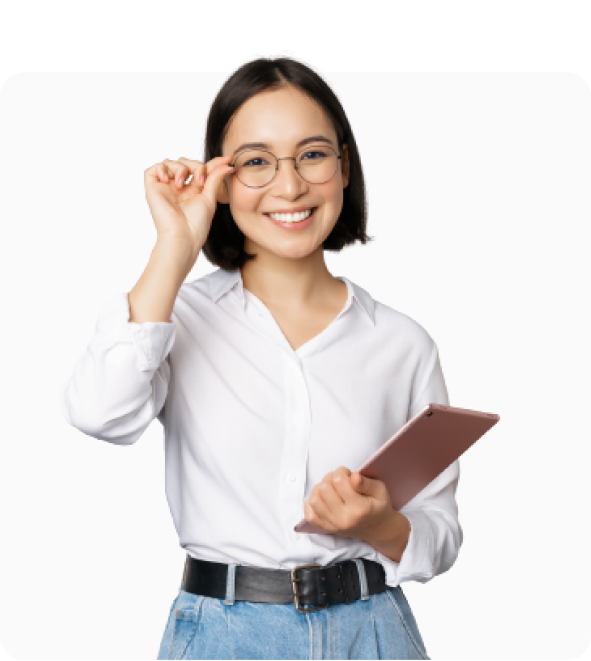
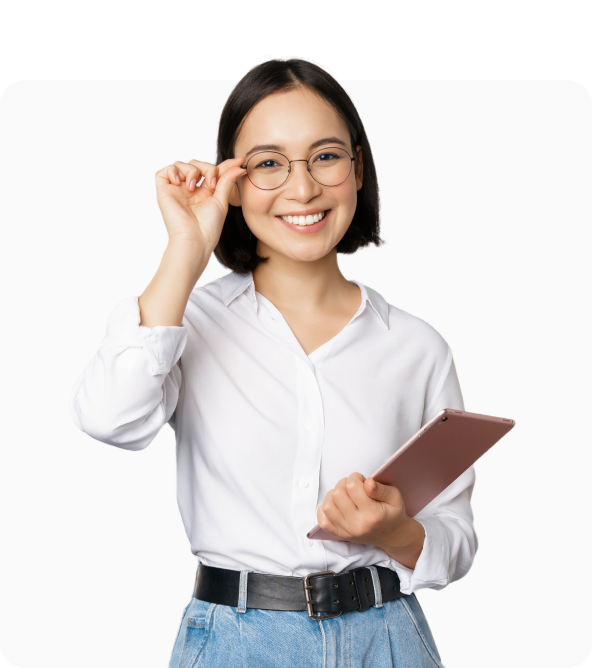
feat: add register page

Changed region(s): [[0.1218, 0.0605, 0.8832, 1.0]]

diff --git a/src/pages/daftar/index.jsx b/src/pages/daftar/index.jsx
@@ -1,0 +1,171 @@
+import { Button } from "@/components/common/button";
+import { Navbar } from "@/components/common/layouts";
+import Image from "next/image";
+import Link from "next/link";
+import { useState } from "react";
+
+export default function Daftar() {
+  const [selectedRegister, setSelectedRegister] = useState("guru"); // ["guru", "murid"]
+  const [formData, setFormData] = useState({
+    emailGuru: "",
+    passwordGuru: "",
+    namaGuru: "",
+    jenisKelaminGuru: "",
+    tipeGuru: "",
+    emailMurid: "",
+    passwordMurid: "",
+    namaMurid: "",
+    tingkatPendidikanMurid: "",
+  });
+
+  const handleInputChange = (e) => {
+    const { name, value } = e.target;
+    setFormData((prev) => ({ ...prev, [name]: value }));
+  };
+
+  const handleSubmit = (e) => {
+    e.preventDefault();
+    console.log(formData);
+  };
+
+  return (
+    <>
+      <Navbar dark />
+      <div className="flex items-center justify-center gap-24 my-12 px-36">
+        <div className="flex flex-col items-center flex-1 gap-10">
+          <Image
+            src={`/img/daftar/${
+              selectedRegister === "guru" ? "daftar-guru" : "daftar-murid"
+            }.png`}
+            alt=""
+            width={592}
+            height={668}
+            quality={100}
+          />
+          <p className="w-1/2 text-lg font-medium text-center text-green1">
+            {selectedRegister === "guru"
+              ? "“Mari Menjadi Pendidik dan Mulai Menebarkan Ilmu”"
+              : "“Kembangkan keingintahuanmu, gali pengetahuan baru, dan berikan yang terbaik dalam setiap proses belajarmu.”"}
+          </p>
+        </div>
+        <div className="flex flex-col flex-1 gap-8">
+          <h2 className="text-xl font-semibold">Daftar</h2>
+          <div className="flex p-2 rounded-full bg-[#f5f5f5] gap-2 w-full ">
+            <button
+              className={`flex items-center justify-center w-full p-4 font-medium rounded-full transition ${
+                selectedRegister === "guru"
+                  ? "bg-white shadow-md text-black"
+                  : "text-grey1"
+              }`}
+              onClick={() => setSelectedRegister("guru")}
+            >
+              Daftar sebagai guru
+            </button>
+            <button
+              className={`flex items-center justify-center w-full p-4 font-medium rounded-full transition ${
+                selectedRegister === "murid"
+                  ? "bg-white shadow-md text-black"
+                  : "text-grey1"
+              }`}
+              onClick={() => setSelectedRegister("murid")}
+            >
+              Daftar sebagai murid
+            </button>
+          </div>
+
+          <form className="flex flex-col gap-4" onSubmit={handleSubmit}>
+            {selectedRegister === "guru" ? (
+              <>
+                <input
+                  type="email"
+                  name="emailGuru"
+                  placeholder="Email"
+                  onChange={handleInputChange}
+                  className="px-6 py-5 bg-[#fafafa] rounded-lg outline-none transition focus:bg-[#f5f5f5]"
+                />
+                <input
+                  type="text"
+                  name="namaGuru"
+                  placeholder="Nama Lengkap"
+                  onChange={handleInputChange}
+                  className="px-6 py-5 bg-[#fafafa] rounded-lg outline-none transition focus:bg-[#f5f5f5]"
+                />
+
+                <select
+                  name="jenisKelaminGuru"
+                  onChange={handleInputChange}
+                  className="px-6 py-5 bg-[#fafafa] rounded-lg outline-none transition focus:bg-[#f5f5f5] border-r-transparent border-r-[24px]"
+                >
+                  <option value="" disabled selected>
+                    Jenis Kelamin
+                  </option>
+                  <option value="Laki-laki">Laki-laki</option>
+                  <option value="Perempuan">Perempuan</option>
+                </select>
+
+                <select className="px-6 py-5 bg-[#fafafa] rounded-lg outline-none transition focus:bg-[#f5f5f5] border-r-transparent border-r-[24px]">
+                  <option value="" disabled selected>
+                    Tipe Guru
+                  </option>
+                  <option value="umum">Guru Umum</option>
+                  <option value="spesialis">Guru Spesialis Disabilitas</option>
+                </select>
+
+                <input
+                  type="password"
+                  name="passwordGuru"
+                  placeholder="Kata Sandi"
+                  onChange={handleInputChange}
+                  className="px-6 py-5 bg-[#fafafa] rounded-lg outline-none transition focus:bg-[#f5f5f5]"
+                />
+              </>
+            ) : (
+              <>
+                <input
+                  type="email"
+                  name="emailMurid"
+                  placeholder="Email"
+                  onChange={handleInputChange}
+                  className="px-6 py-5 bg-[#fafafa] rounded-lg outline-none transition focus:bg-[#f5f5f5]"
+                />
+                <input
+                  type="text"
+                  placeholder="Nama Lengkap"
+                  className="px-6 py-5 bg-[#fafafa] rounded-lg outline-none transition focus:bg-[#f5f5f5]"
+                />
+                <select className="px-6 py-5 bg-[#fafafa] rounded-lg outline-none transition focus:bg-[#f5f5f5] border-r-transparent border-r-[24px]">
+                  <option value="" disabled selected>
+                    Tingkat Pendidikan
+                  </option>
+                  <option value="sd">SD</option>
+                  <option value="smp">SMP</option>
+                  <option value="sma">SMA</option>
+                  <option value="mahasiswa">Mahasiswa</option>
+                </select>
+
+                <input
+                  type="password"
+                  name="passwordMurid"
+                  placeholder="Kata Sandi"
+                  onChange={handleInputChange}
+                  className="px-6 py-5 bg-[#fafafa] rounded-lg outline-none transition focus:bg-[#f5f5f5]"
+                />
+              </>
+            )}
+          </form>
+
+          <Button>Daftar</Button>
+          <div className="flex justify-center gap-1 text-center">
+            <p className="text-grey1">Sudah punya akun?</p>
+            <Link
+              href="/masuk"
+              className="font-medium text-green1 hover:underline"
+            >
+              Masuk
+            </Link>
+          </div>
+        </div>
+      </div>
+    </>
+  );
+}

diff --git a/src/components/common/layouts/app.jsx b/src/components/common/layouts/app.jsx
@@ -3,8 +3,11 @@ import Aos from "aos";
 import "aos/dist/aos.css";
 import { useEffect } from "react";
 import { Footer } from ".";
+import { useRouter } from "next/router";
 
 export default function AppLayout({ children }) {
+  const router = useRouter();
+
   useEffect(() => {
     Aos.init();
   }, []);
@@ -13,7 +16,9 @@ export default function AppLayout({ children }) {
     <>
       <SeoMeta />
       <main>{children}</main>
-      <Footer />
+      {router.pathname !== "/masuk" && router.pathname !== "/daftar" && (
+        <Footer />
+      )}
     </>
   );
 }
